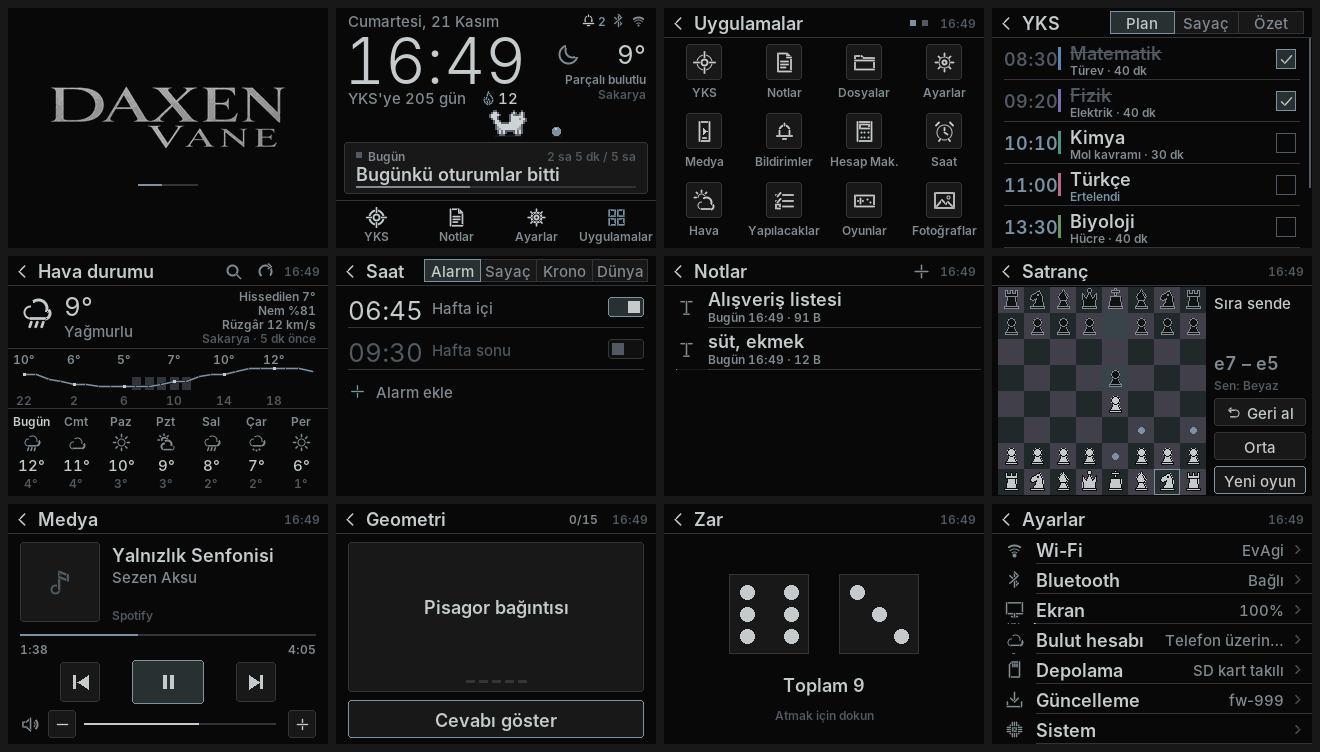
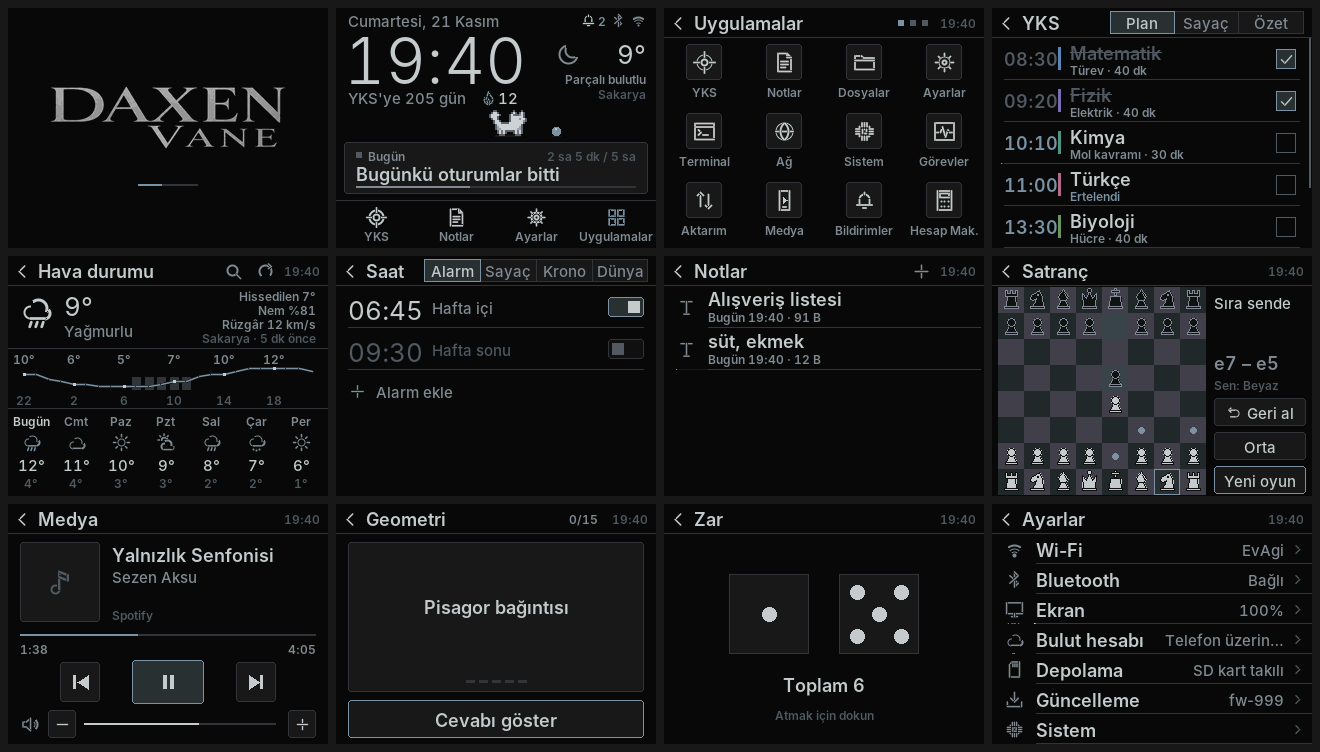
Ağ araçları ve Aktarım: bellek yetmezse bulut duraklatılıyor; Terminal ve Ağ ilk sayfada
Kartta (fw-v47) ağ araçları "bellek yetersiz" diyordu: bulutun canlı akışı açıkken boş bellek
22 KB, en büyük blok 10 KB; araç 8 KB yığın + 24 KB pay istiyordu.
- Tarama artık süreç açmadan ağ görevine yaptırılıyor (ek bellek yok).
- Diğer araçlar 6 KB yığınla; bellek yetmezse bulutun canlı akışı iş boyunca duraklatılıyor
  (netHold), iş bellek açılınca başlıyor (en çok 8 sn bekler), bitince bulut geri dönüyor.
- Aktarım ve "tarayıcıdan gir" de aynı yolu kullanıyor; ekran "Bellek açılıyor…" deyip yeniden dener.
- Terminal'e kendi simgesi; Terminal, Ağ, Sistem, Görevler ve Aktarım başlatıcının ilk sayfasında.
- memory komutu bulut canlı akışının durumunu da gösteriyor.
- Test: uygulama listesinin sırası (6 denetim).

Claude-Session: https://claude.ai/code/session_01RSmST3SSX6RAJSLEY222fy

diff --git a/firmware/src/sys/netdiag.h b/firmware/src/sys/netdiag.h
@@ -1,7 +1,9 @@
 #pragma once
 // DAXEN VANE sistem katmanı · Ağ teşhisi: ayrıntılı tarama, ping, DNS, TCP bağlantı testi,
-// traceroute ve bağlantı testi. Her iş, iş süresince var olan "ağ-araç" sürecinde çalışır (8 KB
-// yığın); çıktı satır satır ndOut'a yazılır, Terminal ve Ağ uygulaması oradan okur. Yalnızca
+// traceroute ve bağlantı testi. Tarama ağ görevine yaptırılır (süreç açılmaz). Diğer işler iş
+// süresince var olan "ağ-araç" sürecinde çalışır (6 KB yığın); bellek yetmezse bulutun canlı akışı
+// duraklatılır (netHold) ve iş bellek açılınca başlar, bitince akış geri gelir. Çıktı satır satır
+// ndOut'a yazılır, Terminal ve Ağ uygulaması oradan okur. Yalnızca
 // kullanıcının istediği adreslere yanıt isteği gönderilir; tarama pasiftir, ağa müdahale edilmez.
 // main.cpp'den sırayla eklenir (tek çeviri birimi); kendinden önceki dosyalardaki tanımları kullanır.
 #include <lwip/netdb.h>
@@ -10,6 +12,9 @@
 
 static int ndPid = -1;
 static String ndErr;
+static bool ndPending = false, ndScanPending = false;  // bellek bekleniyor / tarama sürüyor
+static uint32_t ndPendingAt = 0, ndScanBefore = 0;
+static const uint32_t ND_STACK = 6144;
 static uint8_t ndJob = ND_SCAN;
 static String ndHost;
 static int ndArg = 0;
@@ -194,17 +199,7 @@ static void ndTest() {
          " · internet " + (netOk ? "var" : "yok"));
 }
 
-static void ndScan() {
-  ndEmit("Taranıyor…");
-  uint32_t before = wifiScanAt;
-  wifiScanFull = true;
-  wifiScanReq = true;
-  uint32_t t0 = millis();
-  while (wifiScanAt == before && millis() - t0 < 15000 && !ndStop()) vTaskDelay(pdMS_TO_TICKS(100));
-  if (wifiScanAt == before) {
-    ndEmit("Tarama bitmedi");
-    return;
-  }
+static void ndScanReport() {
   std::vector<WifiAp> aps;
   {
     Lock l;
@@ -220,11 +215,10 @@ static void ndScan() {
 
 static void ndProc(Proc* p) {
   ndProcP = p;
-  if (WiFi.status() != WL_CONNECTED && ndJob != ND_SCAN) {
+  if (WiFi.status() != WL_CONNECTED) {
     ndEmit("Wi-Fi'ye bağlı değil");
   } else {
     switch (ndJob) {
-      case ND_SCAN: ndScan(); break;
       case ND_PING: ndPing(ndHost, ndArg); break;
       case ND_DNS: ndDns(ndHost); break;
       case ND_TCP: ndTcp(ndHost, ndArg); break;
@@ -236,34 +230,69 @@ static void ndProc(Proc* p) {
   ndProcP = nullptr;
 }
 
-static bool ndBusy() { return kAlive(ndPid); }
+static bool ndBusy() { return ndPending || ndScanPending || kAlive(ndPid); }
 static String ndError() { return ndErr; }
+static bool netLiveOpen() { return live.c != nullptr; }
+
+// Bellek yeterliyse işi başlatır; değilse bulut duraklatılmış olarak bekler (en fazla 8 sn).
+// Biten işin süreç kaydını kapatıp bulutu geri bırakır. Saat servisinden ve ekranlardan çağrılır.
+static void ndPoll() {
+  if (ndScanPending && (wifiScanAt != ndScanBefore || millis() - ndPendingAt > 15000)) {
+    ndScanPending = false;
+    if (wifiScanAt != ndScanBefore) ndScanReport();
+    else ndEmit("Tarama bitmedi");
+  }
+  if (ndPending) {
+    bool memOk = sysHeapFree() >= ND_STACK + 18 * 1024 + 2048 && sysHeapMaxAlloc() >= ND_STACK + 512;
+    if (memOk) {
+      ndPending = false;
+      ndPid = kSpawn("ağ-araç", ndProc, ND_STACK, true, K_PROC_PRIO, 1);
+      if (ndPid < 0) ndEmit("Süreç açılamadı");
+    } else if (millis() - ndPendingAt > 8000) {
+      ndPending = false;
+      ndEmit("Bellek yetersiz: " + String((ND_STACK + 20 * 1024) / 1024) + " KB gerekiyor, " + String(sysHeapFree() / 1024) +
+             " KB boş (en büyük blok " + String(sysHeapMaxAlloc() / 1024) + " KB)");
+    }
+  }
+  if (!ndPending && !kAlive(ndPid)) {
+    ndPid = -1;
+    netHold &= ~HOLD_NETTOOL;
+  }
+}
 
 static bool ndStart(uint8_t job, const String& host, int arg) {
   if (ndBusy()) {
     ndErr = "Önceki ağ işi sürüyor (durdurmak için: stop)";
     return false;
   }
-  const uint32_t stack = 8192;
-  if (sysHeapFree() < stack + 18 * 1024 + 6 * 1024 || sysHeapMaxAlloc() < stack) {
-    ndErr = "Bellek yetersiz: " + String((stack + 24 * 1024) / 1024) + " KB gerekiyor, " + String(sysHeapFree() / 1024) + " KB boş";
-    return false;
+  static const char* const NAMES[] = {"tarama", "ping", "dns", "tcp", "traceroute", "test"};
+  sysLog("ağ", String("araç: ") + NAMES[job] + (host.length() ? " " + host : String("")));
+  ndPendingAt = millis();
+  if (job == ND_SCAN) {  // taramayı ağ görevi yapar; süreç ve ek bellek gerekmez
+    ndEmit("Taranıyor…");
+    ndScanBefore = wifiScanAt;
+    ndScanPending = true;
+    wifiScanFull = true;
+    wifiScanReq = true;
+    return true;
   }
   ndJob = job;
   ndHost = host;
   ndArg = arg;
-  ndPid = kSpawn("ağ-araç", ndProc, stack, true, K_PROC_PRIO, 1);
-  if (ndPid < 0) {
-    ndErr = "Süreç açılamadı";
-    return false;
+  ndPending = true;
+  if (sysHeapFree() < ND_STACK + 20 * 1024 || sysHeapMaxAlloc() < ND_STACK + 512) {
+    netHold |= HOLD_NETTOOL;  // bulut iş bitene kadar bekler; ndPoll bırakır
+    ndEmit("Bellek açılıyor (bulut bağlantısı iş boyunca duraklatıldı)…");
   }
-  static const char* const NAMES[] = {"tarama", "ping", "dns", "tcp", "traceroute", "test"};
-  sysLog("ağ", String("araç: ") + NAMES[job] + (host.length() ? " " + host : String("")));
+  ndPoll();
   return true;
 }
 
 static void ndCancel() {
-  if (ndBusy()) kStop(ndPid);
+  ndPending = false;
+  ndScanPending = false;
+  if (kAlive(ndPid)) kStop(ndPid);
+  ndPoll();
 }
 
 static void ndConnInfo(std::vector<String>& o) {

diff --git a/firmware/src/ui/icons.h b/firmware/src/ui/icons.h
@@ -33,7 +33,7 @@ enum Icon : uint8_t {
   I_PAUSE, I_NEXT, I_PREV, I_SHUFFLE, I_REPEAT, I_VOLUME, I_REFRESH, I_KEYBOARD, I_ERASER, I_UNDO,
   I_LOCK, I_SEARCH, I_PHONE, I_FLAME, I_CHART, I_NOTE, I_GLOBE, I_FLAG, I_MINE, I_SNAKE,
   I_TILES, I_GRID, I_ROOK, I_BLOCKS, I_EYE, I_TEXT, I_PASTE, I_POWER, I_UPDATE,
-  I_DISPLAY, I_LIST, I_STOPWATCH, I_ALARM, I_DICE, I_SPEAKER_OFF, I_PULSE,
+  I_DISPLAY, I_LIST, I_STOPWATCH, I_ALARM, I_DICE, I_SPEAKER_OFF, I_PULSE, I_TERMINAL,
   I_COUNT
 };
 
@@ -131,6 +131,8 @@ static const int8_t ICD_STOPWATCH[] = {C_ 24, 27, 15, L_ 24, 27, 30, 21, L_ 19, 
 static const int8_t ICD_ALARM[] = {C_ 24, 26, 15, L_ 24, 26, 24, 17, L_ 24, 26, 30, 30, L_ 7, 12, 13, 6, L_ 41, 12, 35, 6, L_ 13, 43, 16, 39, L_ 35, 43, 32, 39, E_};
 static const int8_t ICD_DICE[] = {R_ 8, 8, 32, 32, D_ 16, 16, 3, D_ 32, 32, 3, D_ 24, 24, 3, D_ 32, 16, 3, D_ 16, 32, 3, E_};
 
+// Terminal: başlık çubuklu pencere, içinde komut istemi
+static const int8_t ICD_TERMINAL[] = {R_ 5, 8, 38, 32, L_ 5, 15, 43, 15, P_ 3, 12, 21, 17, 26, 12, 31, L_ 21, 31, 31, 31, E_};
 static const int8_t ICD_PULSE[] = {R_ 5, 7, 38, 34, P_ 7, 9, 26, 16, 26, 20, 15, 26, 35, 31, 21, 34, 26, 39, 26, E_};
 
 static const int8_t* const ICON_DEFS[I_COUNT] = {
@@ -141,7 +143,7 @@ static const int8_t* const ICON_DEFS[I_COUNT] = {
     ICD_PAUSE, ICD_NEXT, ICD_PREV, ICD_SHUFFLE, ICD_REPEAT, ICD_VOLUME, ICD_REFRESH, ICD_KEYBOARD, ICD_ERASER, ICD_UNDO,
     ICD_LOCK, ICD_SEARCH, ICD_PHONE, ICD_FLAME, ICD_CHART, ICD_NOTE, ICD_GLOBE, ICD_FLAG, ICD_MINE, ICD_SNAKE,
     ICD_TILES, ICD_GRID, ICD_ROOK, ICD_BLOCKS, ICD_EYE, ICD_TEXT, ICD_PASTE, ICD_POWER, ICD_UPDATE,
-    ICD_DISPLAY, ICD_LIST, ICD_STOPWATCH, ICD_ALARM, ICD_DICE, ICD_SPEAKER_OFF, ICD_PULSE,
+    ICD_DISPLAY, ICD_LIST, ICD_STOPWATCH, ICD_ALARM, ICD_DICE, ICD_SPEAKER_OFF, ICD_PULSE, ICD_TERMINAL,
 };
 
 #undef L_

diff --git a/firmware/src/apps/transfer.h b/firmware/src/apps/transfer.h
@@ -4,6 +4,8 @@
 // Tarayıcı ekranda gösterilen 6 haneli kodla girer (sys/web.h).
 #include "../os/shell.h"
 
+static uint32_t trWaitSince = 0;  // bellek açılması bekleniyor (bulut duraklatıldı)
+
 static void trDrawStatus() {
   fillBg(0, 168, SCR_W, SCR_H - 168);
   String st = webStatus();
@@ -34,9 +36,13 @@ static void trDraw(bool full) {
     return;
   }
   if (!webRunning() && !webStart()) {
-    emptyState(HDR_H, SCR_H - HDR_H, I_TRANSFER, "Sunucu açılamadı", "Bellek yetmedi; kartı yeniden başlatıp dene.");
+    if (!trWaitSince) trWaitSince = millis();
+    bool waiting = millis() - trWaitSince < 8000;
+    emptyState(HDR_H, SCR_H - HDR_H, I_TRANSFER, waiting ? "Bellek açılıyor…" : "Sunucu açılamadı",
+               waiting ? "Bulut bağlantısı sunucu açıkken duraklatılıyor." : "Bellek yetmedi; kartı yeniden başlatıp dene.");
     return;
   }
+  trWaitSince = 0;
   if (!full) {
     trDrawStatus();
     return;
@@ -61,10 +67,10 @@ static void trTick() {
   static uint32_t last = 0, lastStat = 0;
   static bool lastConn = true;
   static String lastSig;
-  if (millis() - last > 1000) {
+  if (millis() - last > (trWaitSince ? 500 : 1000)) {
     last = millis();
     bool c = wifiConnected();
-    if (c != lastConn) {
+    if (c != lastConn || (trWaitSince && sdOk && c && !webRunning() && millis() - trWaitSince < 9000)) {
       lastConn = c;
       trDraw(true);
       return;
@@ -81,6 +87,9 @@ static void trTick() {
   }
 }
 
-static void trClose() { webStop(); }
+static void trClose() {
+  trWaitSince = 0;
+  webStop();
+}
 
 static const App APP_TRANSFER = {"Dosya aktarımı", "Aktarım", I_TRANSFER, nullptr, trDraw, trTap, nullptr, nullptr, nullptr, trTick, nullptr, trClose};

diff --git a/firmware/test/host/tests.cpp b/firmware/test/host/tests.cpp
@@ -523,7 +523,7 @@ static void testCmd() {
 
   group("terminal komutları");
   CmdOut m = termExec("memory");
-  CHECK(m.lines.size() == 4 && m.lines[0].startsWith("Boş: "));
+  CHECK(m.lines.size() == 5 && m.lines[0].startsWith("Boş: ") && m.lines[3].startsWith("Bulut canlı akışı"));
   CHECK(termExec("clear").clear);
   sysLog("test", "bir");
   sysLog("test", "iki");
@@ -584,6 +584,15 @@ static void testNet() {
   CHECK(icmpMatch(t.data(), 30, 0xbeef, 3) == -1);  // kısa paket
   auto q = ipPkt(8, 1, 1, false);
   CHECK(icmpMatch(q.data(), q.size(), 1, 1) == -1);  // istek, yanıt değil
+
+  group("uygulama listesi sırası");
+  const App* const* at = appTable();
+  CHECK(at[AID_YKS] == &APP_YKS && at[AID_NOTES] == &APP_NOTES && at[AID_FILES] == &APP_FILES && at[AID_SETTINGS] == &APP_SETTINGS);
+  CHECK(at[AID_TERMINAL] == &APP_TERMINAL && at[AID_NETWORK] == &APP_NETWORK && at[AID_SYSINFO] == &APP_SYSINFO && at[AID_TASKS] == &APP_TASKS);
+  CHECK(at[AID_TRANSFER] == &APP_TRANSFER && at[AID_MEDIA] == &APP_MEDIA && at[AID_NOTIFS] == &APP_NOTIFS && at[AID_CALC] == &APP_CALC);
+  CHECK(at[AID_CLOCK] == &APP_CLOCK && at[AID_WEATHER] == &APP_WEATHER && at[AID_TODO] == &APP_TODO && at[AID_GAMES] == &APP_GAMES);
+  CHECK(at[AID_PHOTOS] == &APP_PHOTOS && at[AID_READER] == &APP_READER && at[AID_DRAW] == &APP_DRAW && at[AID_CARDS] == &APP_CARDS);
+  CHECK(at[AID_LIGHT] == &APP_LIGHT && appTableCount() == 21);
 
   group("terminal ağ komutları");
   ndConsented = false;

diff --git a/firmware/src/core/state.h b/firmware/src/core/state.h
@@ -46,7 +46,11 @@ static bool bleHasToken = false;            // bir telefonla eşleşmiş mi
 // Yeniden başlama tanısı: RTC belleği yazılım sıfırlamalarında ve çökmelerde silinmez.
 RTC_NOINIT_ATTR uint32_t rtcMagic, rtcUpSec, rtcMinHeap;
 static String bootReason;
-static const char* volatile netPhase = "boşta";  // ağ görevi o an ne yapıyor (bellek günlüğü için)
+static const char* volatile netPhase = "boşta";
+// Bulut bağlantısını geçici durduran kullanıcı işleri (bit: 1 ağ aracı, 2 web sunucusu). Canlı akışın
+// açık TLS bağlantısı on binlerce bayt tutar; kullanıcının başlattığı iş için bırakılır, iş bitince döner.
+enum : uint8_t { HOLD_NETTOOL = 1, HOLD_WEB = 2 };
+static volatile uint8_t netHold = 0;  // ağ görevi o an ne yapıyor (bellek günlüğü için)
 static String diagLastCrash;  // önceki çökmenin özeti (açılışta çekirdek dökümünden)
 
 // Hava durumu

diff --git a/firmware/src/apps/terminal.h b/firmware/src/apps/terminal.h
@@ -52,6 +52,7 @@ static void cMemory(const std::vector<String>&, CmdOut& o) {
   o.kv("Boş", tlKB(sysHeapFree()));
   o.kv("En az (açılıştan beri)", tlKB(mn) + (mn < 18 * 1024 ? "  · 18 KB tabanının altında" : "  · taban tamam"));
   o.kv("En büyük blok", tlKB(sysHeapMaxAlloc()));
+  o.kv("Bulut canlı akışı", netLiveOpen() ? "açık (şifreli bağlantı on binlerce bayt tutar)" : (netHold ? "duraklatıldı" : "kapalı"));
   o.kv("Günlük halkası", String(logRing.used) + " / " + String(LOG_RING) + " B");
 }
 
@@ -400,4 +401,4 @@ static void termSerialPoll() {
 #endif
 }
 
-static const App APP_TERMINAL = {"Terminal", "Terminal", I_CODE, tlOpen, tlDraw, tlTap, nullptr, tlSwipe, nullptr, tlTick, nullptr, tlClose};
+static const App APP_TERMINAL = {"Terminal", "Terminal", I_TERMINAL, tlOpen, tlDraw, tlTap, nullptr, tlSwipe, nullptr, tlTick, nullptr, tlClose};

diff --git a/firmware/src/sys/web.h b/firmware/src/sys/web.h
@@ -379,6 +379,12 @@ static void webProc(Proc* p) {
 static bool webStart() {
   if (web) return true;
   if (WiFi.status() != WL_CONNECTED) return false;
+  // Süreç yığını (10 KB) + yükleme tamponu (4 KB) + sunucu; 18 KB taban korunur. Yetmezse bulutun
+  // canlı akışı duraklatılır (netHold), ekran birkaç saniye sonra yeniden dener.
+  if (sysHeapFree() < (10 + 4 + 4 + 18) * 1024 || sysHeapMaxAlloc() < 11 * 1024) {
+    netHold |= HOLD_WEB;
+    return false;
+  }
   web = new (std::nothrow) WebServer(80);
   if (!web) return false;
   const char* hdrs[] = {"Content-Length", "Cookie"};
@@ -455,6 +461,7 @@ static bool webStart() {
 }
 
 static void webStop() {
+  netHold &= ~HOLD_WEB;
   if (!web) return;
   kStop(webPid);
   if (!kWait(webPid, 8000)) return;  // süreç hâlâ sunucuyu kullanıyor: silinmez (bir dahaki çağrıda)

diff --git a/firmware/src/os/shell.h b/firmware/src/os/shell.h
@@ -28,8 +28,8 @@ static std::vector<const App*> appStack;  // bir uygulamanın içinden açılanl
 
 // Uygulama kimlikleri (os/registry.h'deki listeyle aynı sıra)
 enum AppId : uint8_t {
-  AID_YKS, AID_NOTES, AID_FILES, AID_SETTINGS, AID_MEDIA, AID_NOTIFS, AID_CALC, AID_CLOCK, AID_WEATHER,
-  AID_TODO, AID_GAMES, AID_PHOTOS, AID_READER, AID_DRAW, AID_CARDS, AID_LIGHT, AID_TRANSFER, AID_SYSINFO, AID_TASKS, AID_TERMINAL, AID_NETWORK, AID_COUNT
+  AID_YKS, AID_NOTES, AID_FILES, AID_SETTINGS, AID_TERMINAL, AID_NETWORK, AID_SYSINFO, AID_TASKS, AID_TRANSFER, AID_MEDIA,
+  AID_NOTIFS, AID_CALC, AID_CLOCK, AID_WEATHER, AID_TODO, AID_GAMES, AID_PHOTOS, AID_READER, AID_DRAW, AID_CARDS, AID_LIGHT, AID_COUNT
 };
 static void openApp(uint8_t id);
 static const App* const* appTable();  // os/registry.h

diff --git a/firmware/src/os/registry.h b/firmware/src/os/registry.h
@@ -3,9 +3,9 @@
 #include "home.h"
 
 static const App* const APP_TABLE[AID_COUNT] = {
-    &APP_YKS,   &APP_NOTES,  &APP_FILES,  &APP_SETTINGS, &APP_MEDIA, &APP_NOTIFS, &APP_CALC,     &APP_CLOCK, &APP_WEATHER,
-    &APP_TODO,  &APP_GAMES,  &APP_PHOTOS, &APP_READER,   &APP_DRAW,  &APP_CARDS, &APP_LIGHT,  &APP_TRANSFER, &APP_SYSINFO,
-    &APP_TASKS, &APP_TERMINAL, &APP_NETWORK,
+    &APP_YKS,   &APP_NOTES,  &APP_FILES,  &APP_SETTINGS, &APP_TERMINAL, &APP_NETWORK, &APP_SYSINFO, &APP_TASKS, &APP_TRANSFER,
+    &APP_MEDIA, &APP_NOTIFS, &APP_CALC,   &APP_CLOCK,    &APP_WEATHER,  &APP_TODO,    &APP_GAMES,   &APP_PHOTOS, &APP_READER,
+    &APP_DRAW,  &APP_CARDS,  &APP_LIGHT,
 };
 static const App* const* appTable() { return APP_TABLE; }
 static int appTableCount() { return AID_COUNT; }

diff --git a/firmware/src/sys/net.h b/firmware/src/sys/net.h
@@ -985,6 +985,10 @@ static void netTask(void*) {
       // Plan, kronometre ve olaylar Bluetooth'tan gidip gelir; bulut akışı bellek için kapatılır.
       if (live.c) liveClose();
       setNet("Telefon üzerinden (Bluetooth)", true);
+    } else if (netHold) {
+      // Kullanıcının başlattığı ağ aracı ya da web sunucusu belleğe ihtiyaç duyuyor: bulut bekler
+      if (live.c) liveClose();
+      setNet("Bulut duraklatıldı (ağ aracı açık)", true);
     } else if (bleHasToken && millis() < NET_BLE_GRACE_MS) {
       // Eşleşmiş telefon açılıştan hemen sonra bağlanır; o arada buluta şifreli bağlantı açılıp telefon
       // gelince hemen kapatılmasın (her şifreli bağlantı on binlerce bayt bellek ister).

diff --git a/firmware/src/apps/settings.h b/firmware/src/apps/settings.h
@@ -429,7 +429,9 @@ static void setTap(int x, int y) {
       if (y >= 200) {
         if (!wifiConnected()) {
           alertBox("Wi-Fi gerekli", "Tarayıcıdan girmek için kart ve telefon aynı Wi-Fi ağında olmalı.");
-        } else if (webStart()) {
+        } else if (!webStart()) {
+          alertBox("Bellek açılıyor", "Bulut bağlantısı duraklatıldı; birkaç saniye sonra yeniden dokun.");
+        } else {
           alertBox("Tarayıcıdan gir", "Telefonun tarayıcısında http://" + wifiIp() + "/hesap adresini aç. Giriş kodu: " + webCode());
         }
       } else if (y >= HDR_H + 50) {
